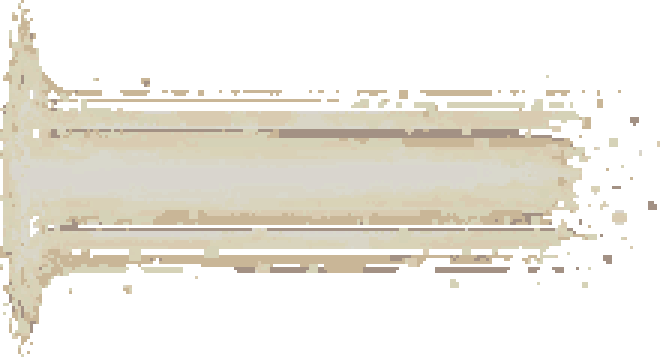
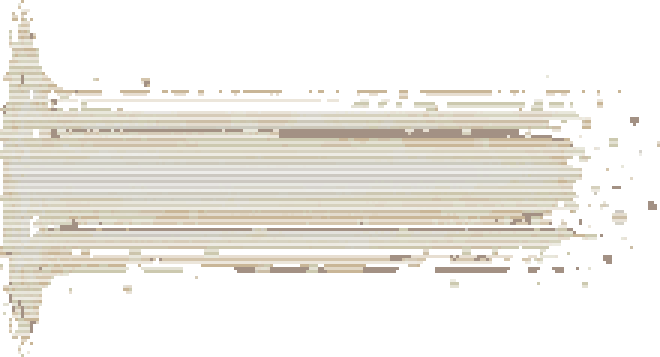
归溟幽灵鲨终结技新设计（红黑剪影弹射撕裂 + 收尾巨锯落下锯开，ult/sp_bounce）、水月水母群收尾改压缩爆炸、流明光柱中心改一片片光幕去发白（用户 / 协调人 10-30）
判定 / 时序 / 伤害不动；同 seed TRACE 幽灵鲨（对 f45f9e76e）、水月（对 ee840953a）逐行相同。

diff --git a/docs/199_ult_proto.md b/docs/199_ult_proto.md
@@ -364,6 +364,9 @@ cloud-results/ult-T2 3c1e79e0f（`python tools/ult_pair.py --t0 cloud-results/ul
 - 预审最终：幽灵鲨「锯齿重复」（整圈单张贴图，锯齿规则是造型）、铃兰「斩痕与周围弹幕重叠」、水月「抓人小触手在敌群里重叠」（位置跟被抓敌人走）、流明「发白」（本地探针近白 2%，冲击帧闪白是框架的）与「光环矩形块」（已是连续环，块是 3 像素格画风）判误报，照发。
 - **10-30 第三轮（协调人转用户）**：「忍冬刚出现不能说是发光的，得能看出人，然后是走路进场，一刀砍过去」→ 忍冬改用本体帧条（Spine 会话 claude/spine-anim-pilot da10e5094，PRTS 原作骨架 char_4026_vulpis：`op_vulpis_walk` 8 帧走路、`op_vulpis_slash` 8 帧拔刀斩、出刀帧 f4，96 画布 foot (48, 76)，V6_FRAMES 已登记）。开关 `ult/sz_body_v2`（缺省 1；0 = 白光人形版）：从铃兰外侧约 150 像素横着走进来（`ult/sz_walk` 0.3 秒、放大 1.25）→ 到位顿帧停半拍 → 拔刀，出刀帧正好是「瞬身」那一下 → 斩痕从她的站位出发，爆裂就在这一道上加粗爆亮（不另起一道）。现身段因此 0.3 → 0.55 秒（多 0.25 秒，伤害 / 判定不变；协调人「不额外加长太多」）；`ult/sz_body_v2=0` 时同 seed TRACE 与 ee840953a 逐行相同。锚点按取到的贴图倍率换算（网页包可能是 @1x，第一版写死 @2x 纹素，人站到了右上方）。预审剩「斩痕和队友弹幕重叠」，判误报。录像 `Claude outputs/ult_fx_c_suzuran_对照.mp4`。
 - **水月新设计粗稿「水母群」（协调人 10-30 转用户「做个大概的给我看看」）**：开关 `ult/mz_jelly`（缺省 1；0 = 大触手版）。pixgen 1 张出三只水母（`fx_mz_jelly1–3`，深蓝伞盖 + 青色荧光斑 + 丝带触手），9 只按 vseed 散在横扫扇区里，从地底缓缓升起、上下漂、伞盖一张一缩、冒上飘光点；横扫打到的敌人由最近的水母伸丝带触手（10 段贝塞尔线，跟着飘）贴上去，光沿触手一节节传到敌人身上迸一下（至多 10 根）；到原「抓漏网」时刻所有水母同步一闪爆开成光点、往上飘散淡出；抓到的 6 名也各连一根触手，束缚环照旧。大触手 / 钻洞 / 小触手 / 扫过残影不画。判定 / 时序 / 伤害不动，同 seed TRACE 与 ee840953a 逐行相同。预审报水母等距重复、爆开发白（探针近白 1%）、缺飘散过程——粗稿照发，定稿再处理。录像 `Claude outputs/ult_fx_c_mizuki_对照.mp4`（左为 session-2 大触手版）。
+- **水月第二版（用户 10-30「水母上升的想法不错，但是最后的爆炸不够震撼，也可以用那种压缩爆炸」）**：收尾改压缩爆炸——横扫后段（T0 + 0.55T）起水母被吸向群心（往水月拉 25%）、越缩越小越亮，压缩点亮核长大 + 暗压力环往里收 + 光点吸入；原「抓漏网」时刻顿帧 `ult/mz_jelly_stop` 0.1 → 爆闪 + 两道青 / 紫冲击环 + 两层青紫粒子 + 一圈上飘余光。同 seed TRACE 逐行相同。预审报发白（探针近白 0%，判误报）与缺地面反馈（水母是光、不砸地，设计取向）。
+- **归溟幽灵鲨新设计（用户定，协调人 10-30 转）**：开关 `ult/sp_bounce`（缺省 1，优先于 `ult/sp_saw_v2`）。她化成红黑剪影（待机第 0 帧染暗红）在敌人之间弹射：每圈（0.25 秒）把这一圈锯到的敌人位置串成路线，第 i 圈弹 1 + i/3 下（越弹越快），不够就按哈希挑圈内点（角度 / 距离错开）；弹射线 = 斩痕贴图染血红 → 暗红黑，落点撕开一道短粗口子（地面层，血红冷成暗红）+ 血红火花；第 12 圈收尾：巨型整圈锯 `fx_sp_saw`（+ 大一圈血色光晕层）在敌群中心落下、缩放转一下、锯出一圈不规整撕裂痕，顿帧 `ult/sb_hitstop` 0.1，红色粒子，消散。判定 / 时序 / 伤害 / 减伤 / 不倒都不动（12 圈原样），同 seed TRACE 与 f45f9e76e 逐行相同。预审报巨锯「锯齿重复」（单张整圈贴图，判误报）。
+- **流明光柱（协调人 10-30 转预审「中心大片纯白」）**：光柱贴图亮度封顶 0.8、芯部按 3 纹素行分组降透明度成一片片光幕，两层透明度 0.62 / 0.3 → 0.5 / 0.22，起柱灯调暗。探针近白 1%。
 - 坑：`godot_runner.ensure_imported` 只补缺的导入文件，**改过的贴图不会重导**；改图后要删 `game/.godot/imported/<名>@2x.png-*` 再导入，否则录像里还是旧图。
 
 ## 8 已知问题 / 下一步
